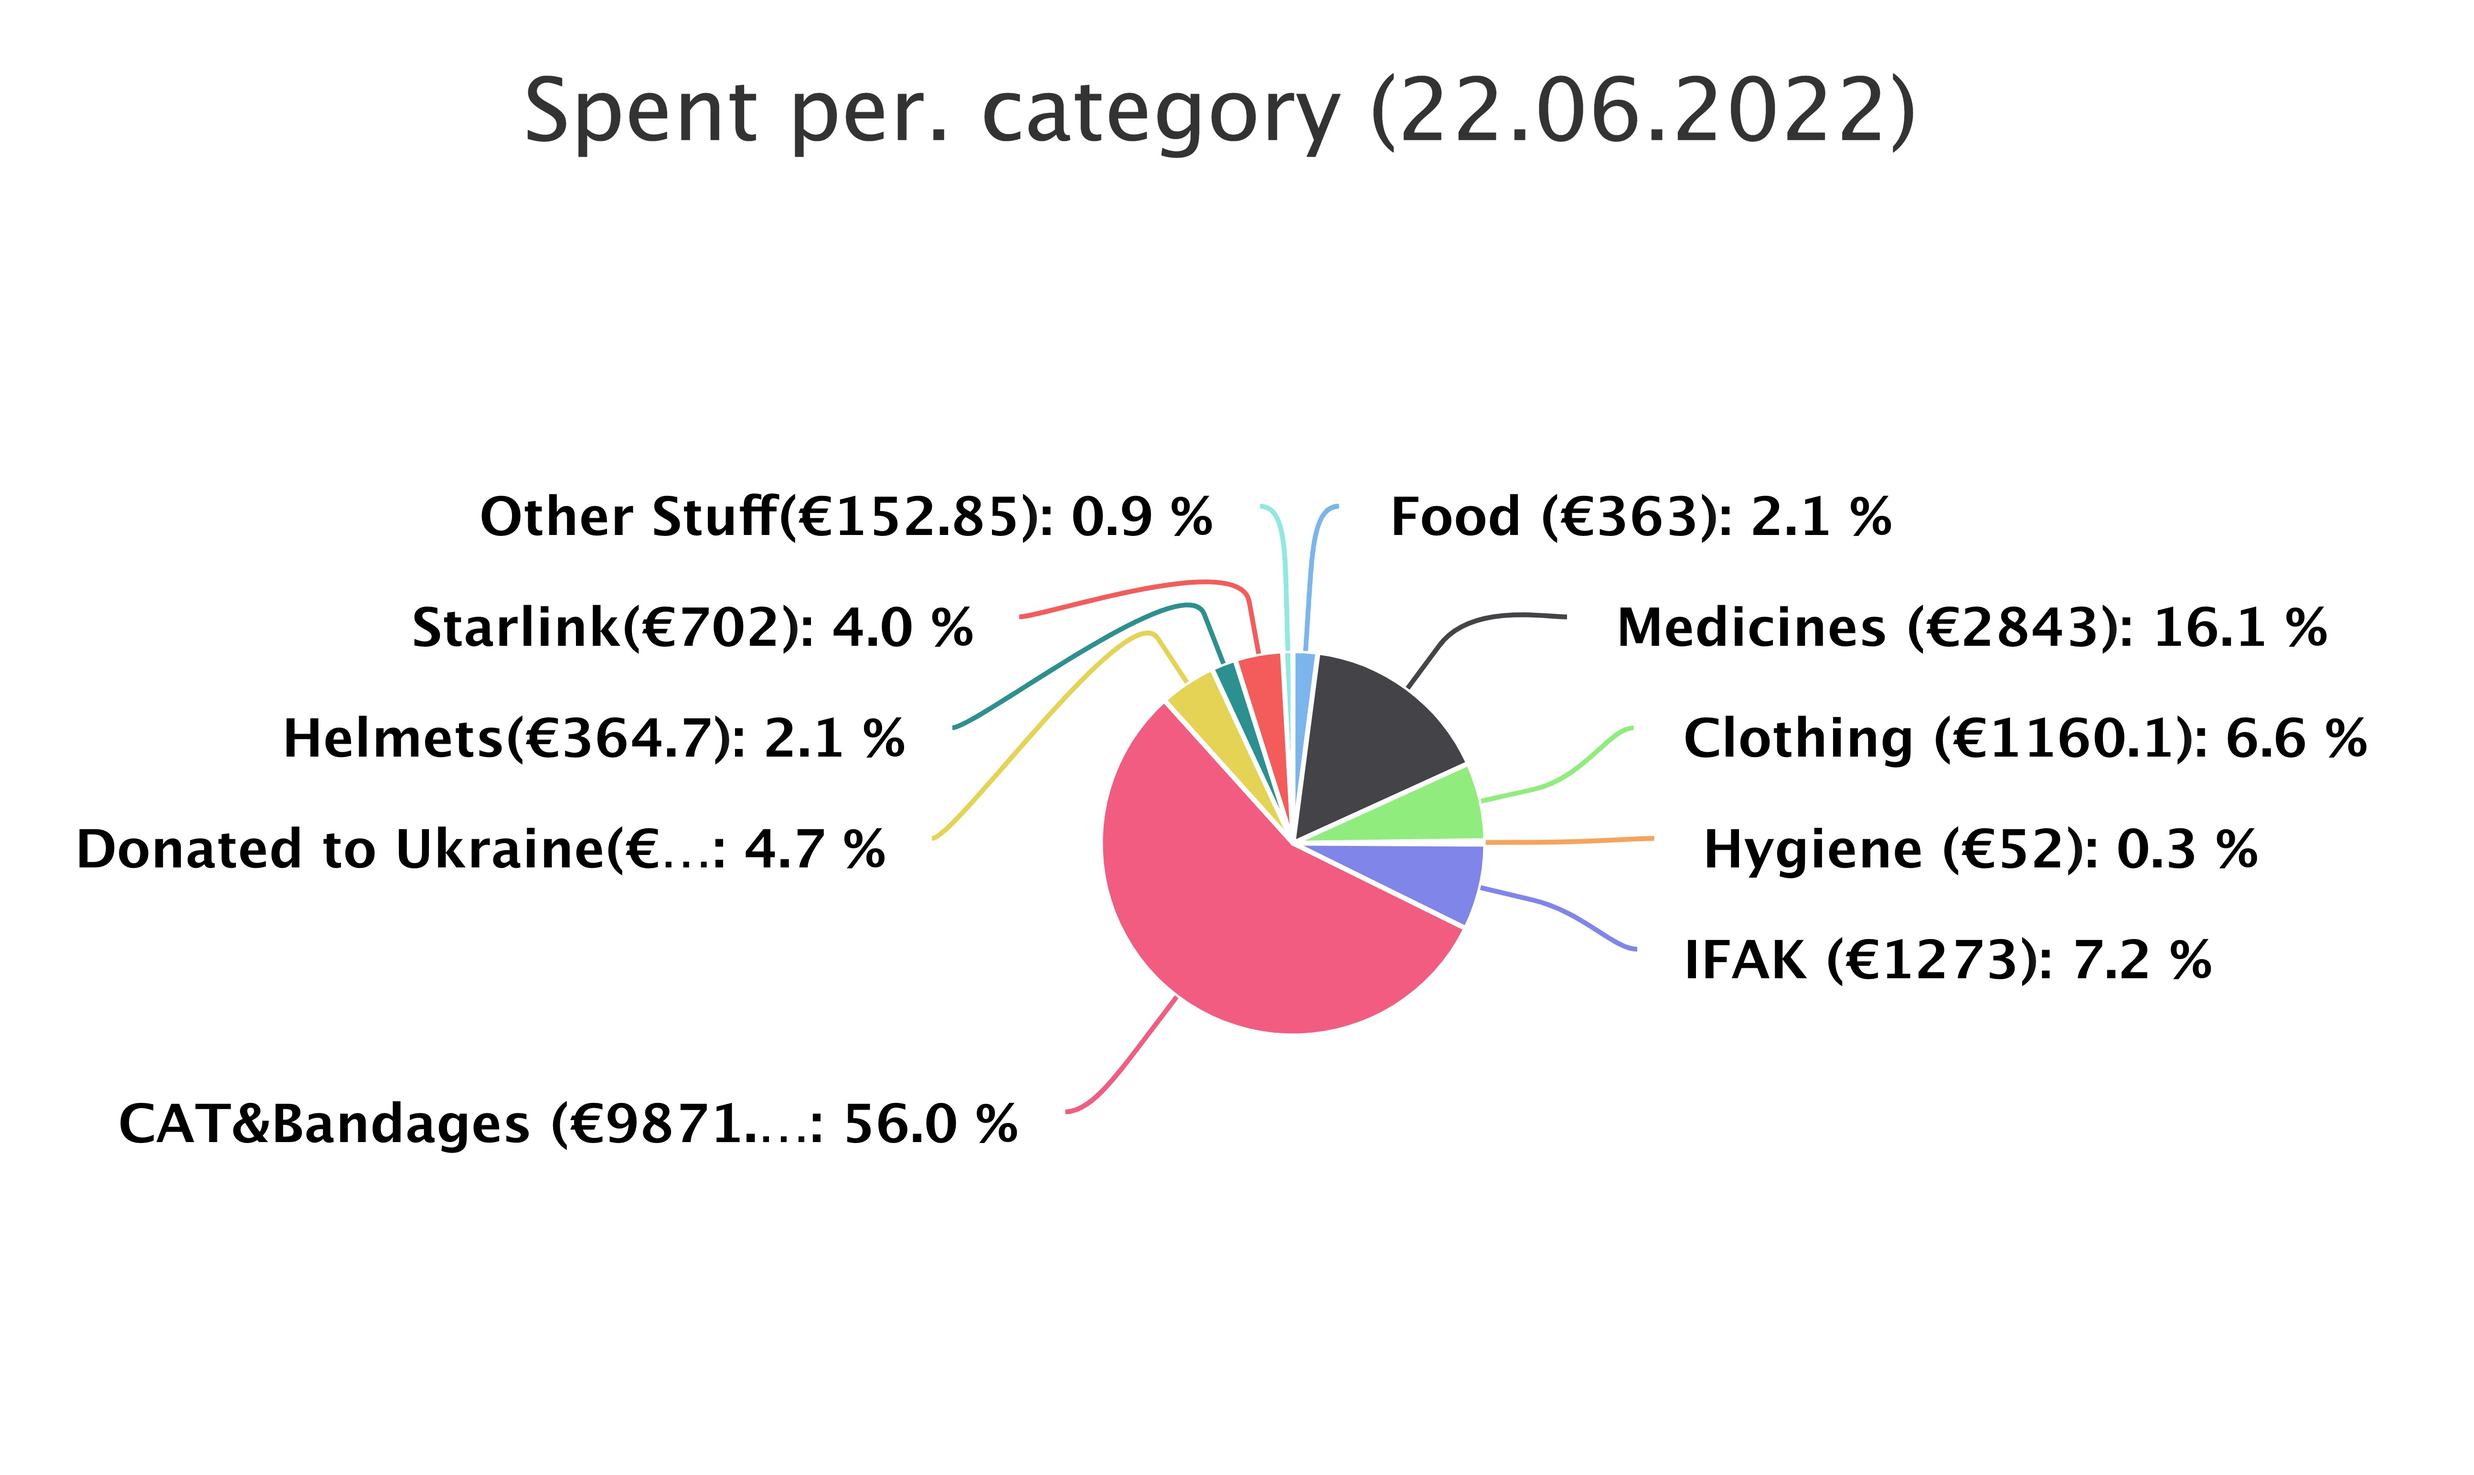
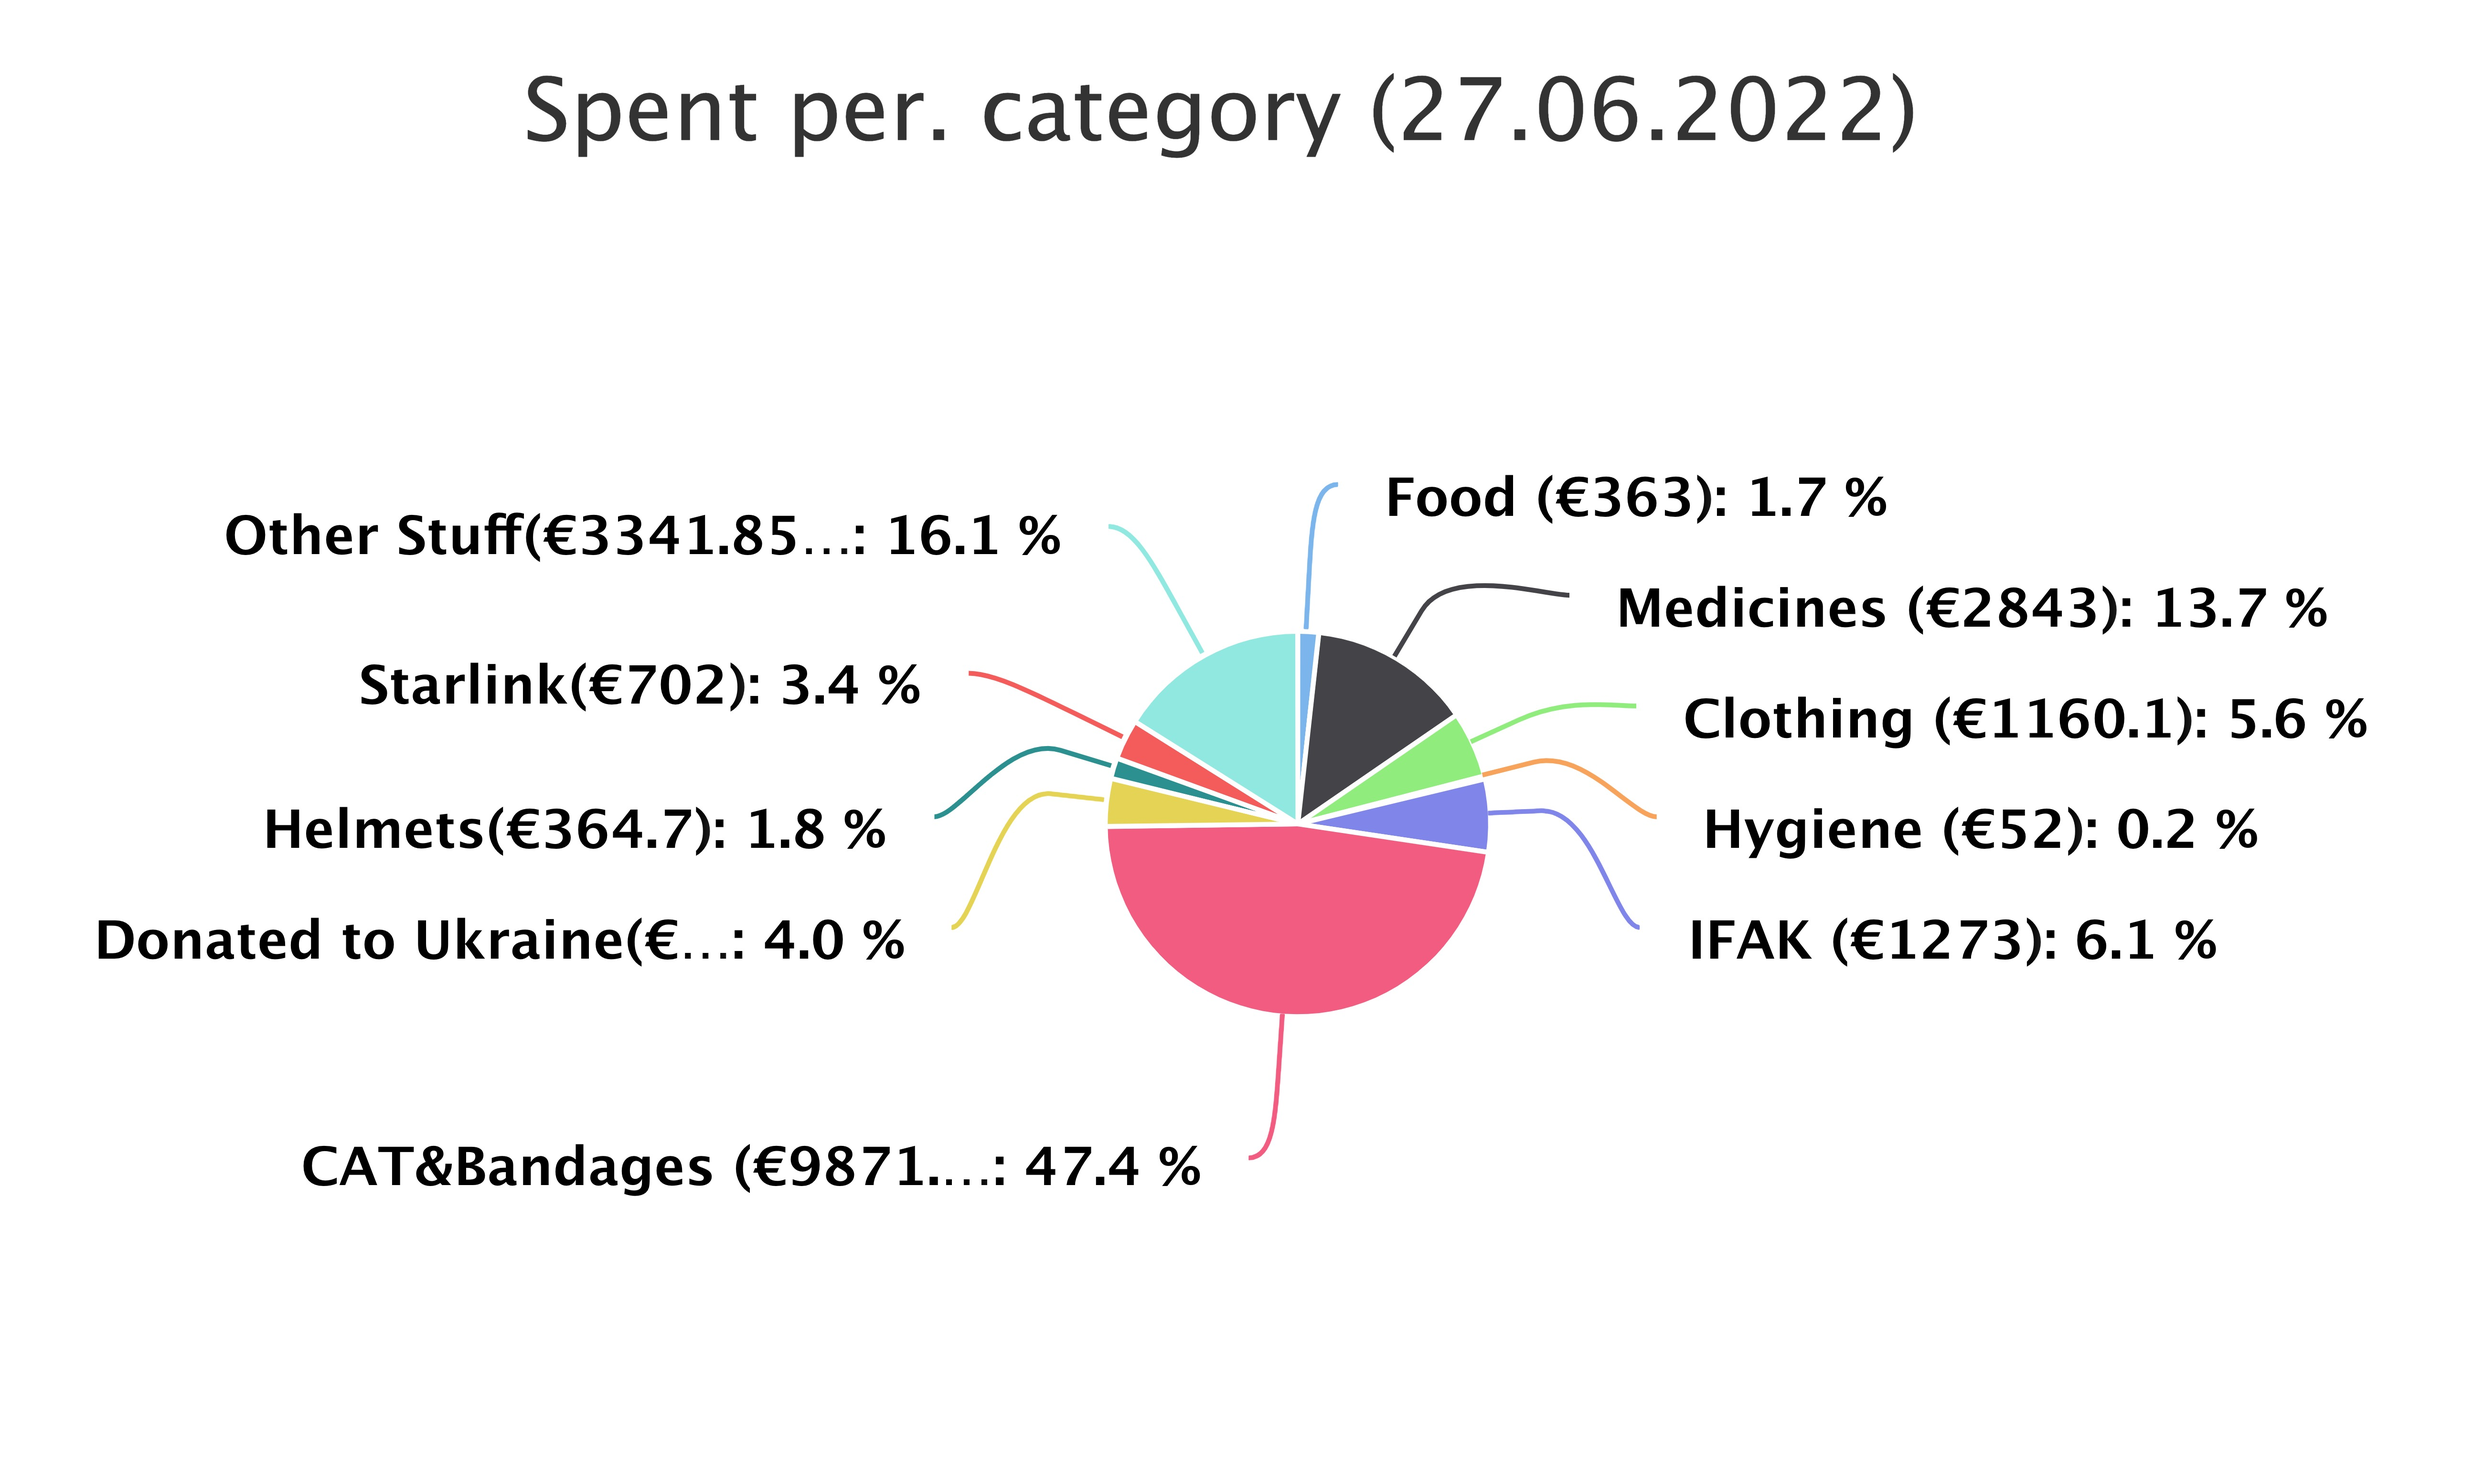
Hot update

diff --git a/index.html b/index.html
@@ -233,11 +233,11 @@
             <div class="row">
                 <div class="col-lg-6">
                     <p>Raised</p>
-                    <h1>&euro; 19 537</h1>
+                    <h1>&euro; 23 448</h1>
                 </div>
                 <div class="col-lg-6">
                     <p>Allocated</p>
-                    <h1>&euro; 17 615</h1>
+                    <h1>&euro; 20 805</h1>
                 </div>
             </div>
         </div> <!-- end of container -->
